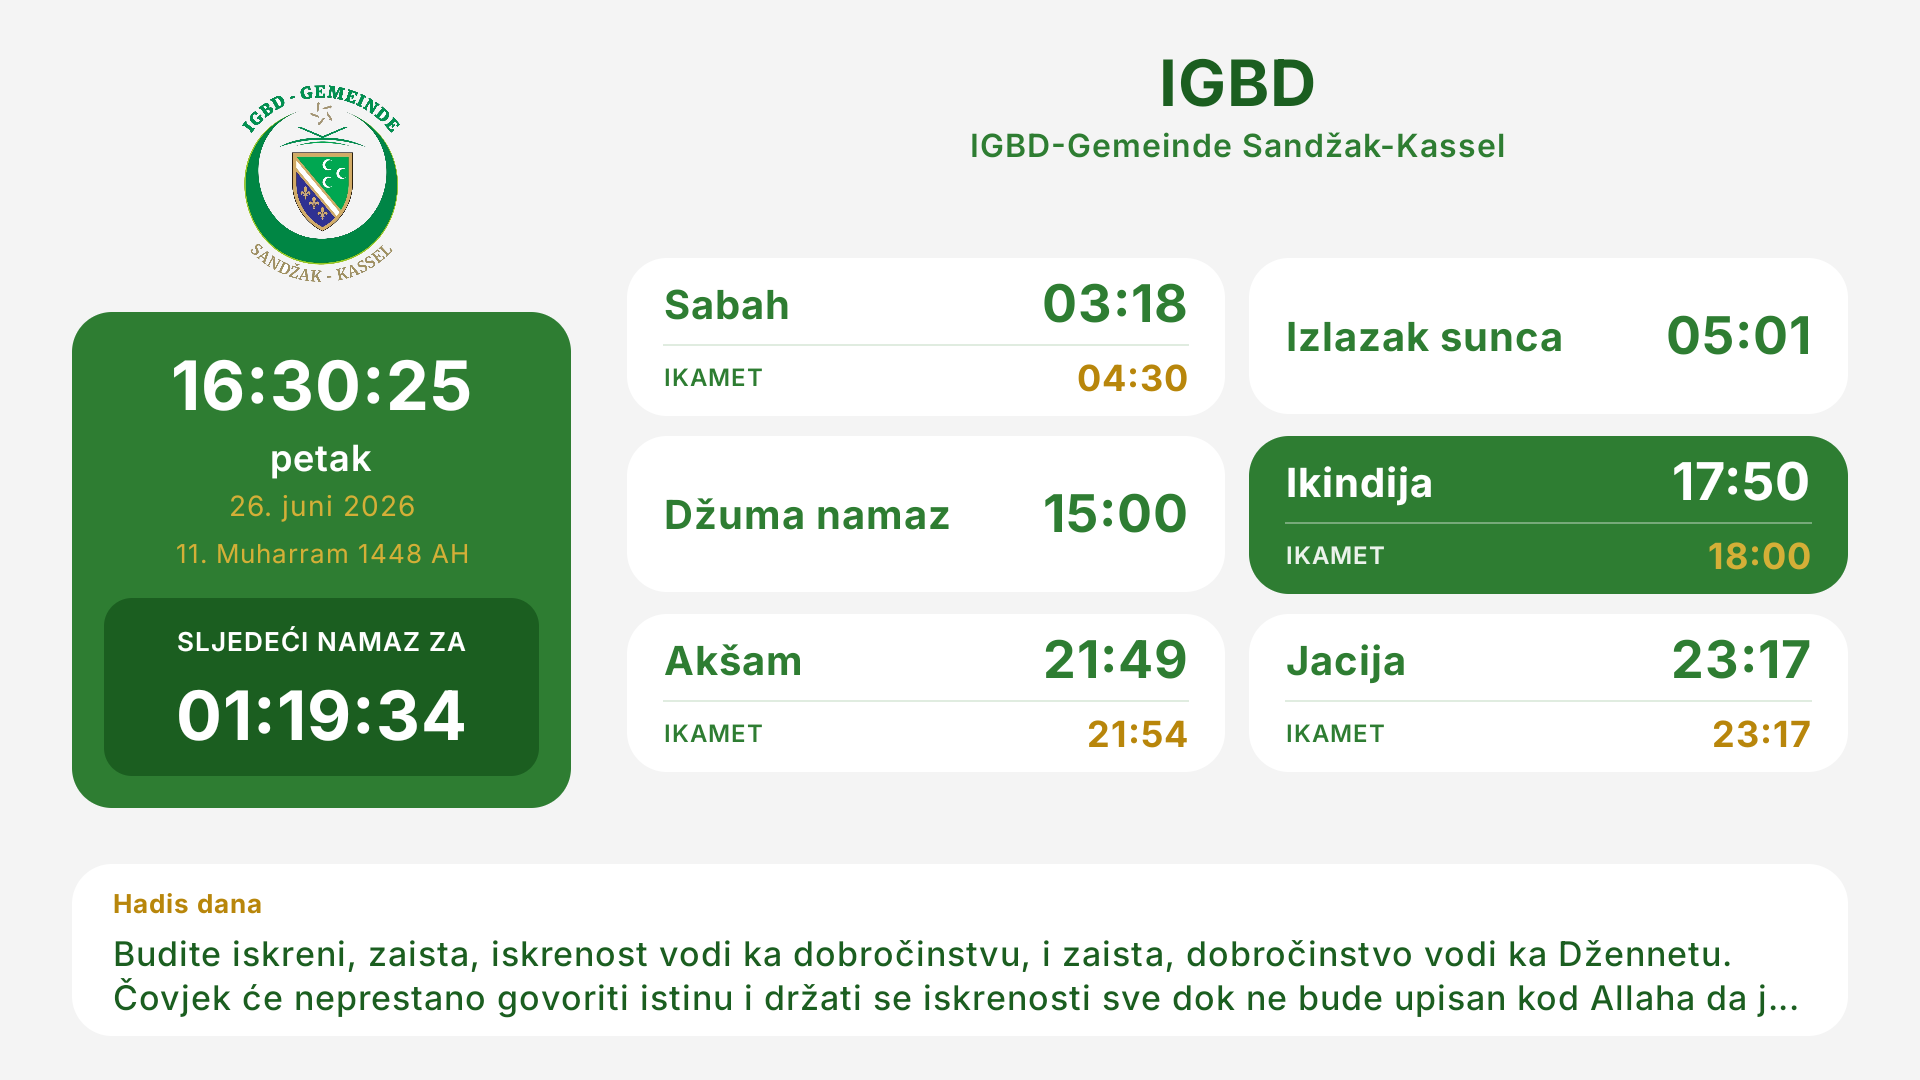
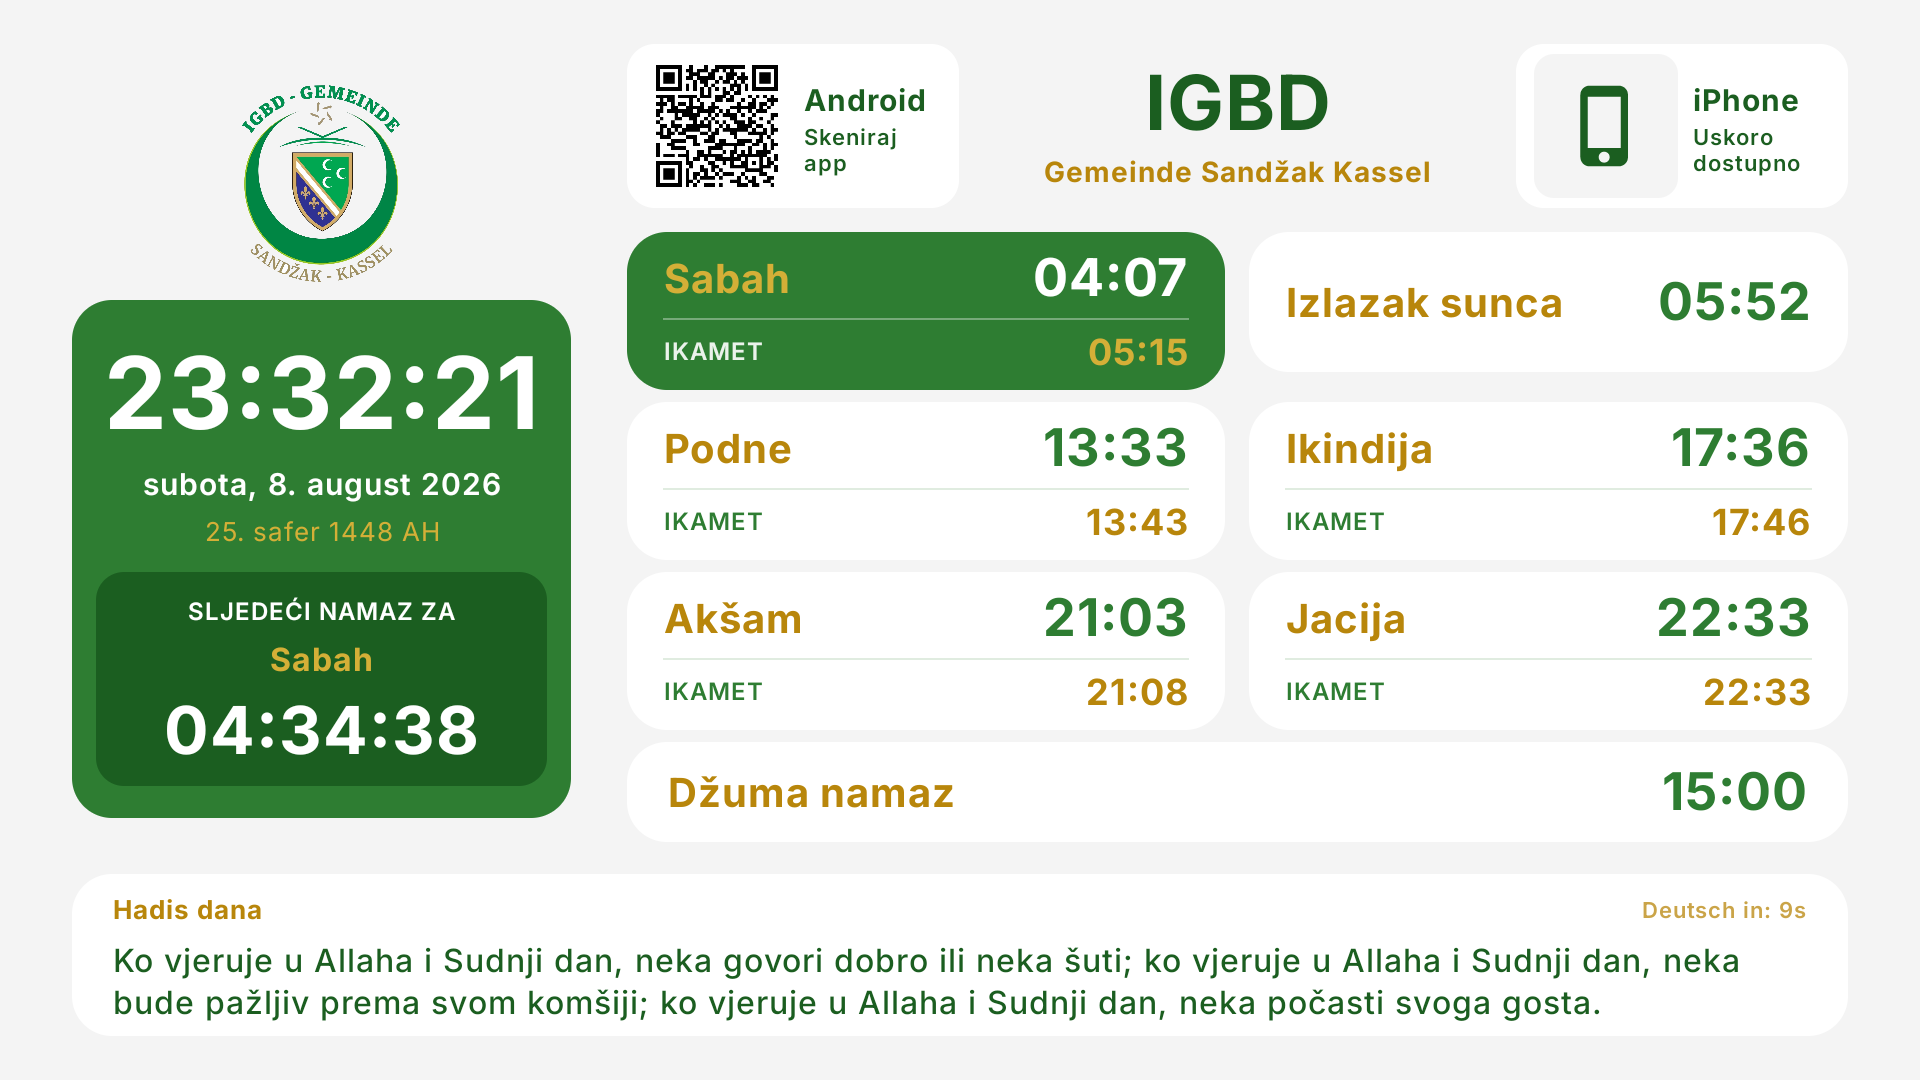
1.1.2 (versionCode 13): fix in-app language on Play installs + TV download QR codes
The language picker was broken for every Play-installed user: Play splits an App Bundle
per language and only installs the resources matching the device's system locale, so
choosing any other language found no strings and Android fell back to the system locale.
On a German phone the whole app — the onboarding intro the owner reported, and every
other screen — stayed German no matter what was picked. Fixed by disabling the language
split so all 8 languages ship in the base APK. This is invisible in debug/single-APK
builds, which is why it survived until now; verified instead at the bundle level
(BundleConfig.pb now carries splitDimension LANGUAGE negate:true).

TV wall board, per owner request (the mosque TV is small and hangs high):
- Two download badges flanking the community name at the top of the board: a scannable
  Android QR (regenerated larger, low error-correction so each module is physically
  bigger) and an iPhone placeholder reading "Bald verfügbar" / "Uskoro dostupno".
  Deliberately no QR on the iOS side until that build exists — a code that scans into
  nothing is worse than none.
- Badges are laid out horizontally: stacked, they were tall enough to push Maghrib, Isha
  and the whole Jumu'ah row off the board. Verified in BOTH language phases, because the
  3-line German hadith makes the band below taller and clipped Jumu'ah in German only.
- Emblem enlarged 80 -> 104dp, sized against the slack under the hero card in that same
  worst case.
[…]

diff --git a/app/src/main/java/de/igbdsandzakkassel/vaktija/ui/tv/TvDashboardScreen.kt b/app/src/main/java/de/igbdsandzakkassel/vaktija/ui/tv/TvDashboardScreen.kt
@@ -2,6 +2,7 @@ package de.igbdsandzakkassel.vaktija.ui.tv
 
 import android.content.Context
 import android.content.res.Configuration
+import androidx.annotation.DrawableRes
 import androidx.compose.animation.Crossfade
 import androidx.compose.animation.core.Animatable
 import androidx.compose.animation.core.FastOutSlowInEasing
@@ -23,7 +24,10 @@ import androidx.compose.foundation.layout.padding
 import androidx.compose.foundation.layout.size
 import androidx.compose.foundation.layout.width
 import androidx.compose.foundation.shape.RoundedCornerShape
+import androidx.compose.material.icons.Icons
+import androidx.compose.material.icons.outlined.PhoneIphone
 import androidx.compose.material3.HorizontalDivider
+import androidx.compose.material3.Icon
 import androidx.compose.material3.Text
 import androidx.compose.runtime.Composable
 import androidx.compose.runtime.DisposableEffect
@@ -201,56 +205,62 @@ private fun BoardBody(state: DashboardUiState, german: Boolean, ctx: Context) {
             Image(
                 painter = painterResource(R.drawable.logo_emblem),
                 contentDescription = stringResource(R.string.cd_app_logo),
-                modifier = Modifier.height(80.dp),
+                // Sized against the slack under the hero card, measured with the WORST case on
+                // screen (the 3-line German hadith, which makes the band below tallest). Going
+                // much past this starts clipping the countdown.
+                modifier = Modifier.height(104.dp),
             )
             Spacer(Modifier.height(6.dp))
             HeroCard(state, german, ctx, Modifier.fillMaxWidth())
-            Spacer(Modifier.height(6.dp))
-            // Growth loop: everyone waiting at the entrance can scan the board to install the app.
-            Row(
-                modifier = Modifier
-                    .clip(RoundedCornerShape(12.dp))
-                    .background(Color.White)
-                    .padding(horizontal = 8.dp, vertical = 4.dp),
-                verticalAlignment = Alignment.CenterVertically,
-            ) {
-                Image(
-                    painter = painterResource(R.drawable.tv_qr_play),
-                    contentDescription = null,
-                    modifier = Modifier.size(48.dp),
-                )
-                Text(
-                    text = "Skeniraj za aplikaciju\nApp scannen",
-                    color = BrandGreenDark,
-                    fontSize = 10.sp,
-                    fontWeight = FontWeight.SemiBold,
-                    lineHeight = 13.sp,
-                    modifier = Modifier.padding(start = 8.dp),
-                )
-            }
         }
 
         // ---- Right column: header + 2-column prayer grid + Džuma ----
         Column(modifier = Modifier.fillMaxHeight().weight(0.71f)) {
-            Text(
-                text = "IGBD",
-                color = BrandGreenDark,
-                fontSize = 38.sp,
-                fontWeight = FontWeight.Black,
-                textAlign = TextAlign.Center,
-                maxLines = 1,
+            // Growth loop: everyone waiting in the prayer hall can scan the board to install the
+            // app. The codes flank the community name so they sit at the top of the board — this
+            // TV hangs high on the wall, so the lower it is the worse the scanning angle.
+            Row(
                 modifier = Modifier.fillMaxWidth(),
-            )
-            Text(
-                // The big "IGBD" is already above; the subtitle is just the community name — no
-                // repeated "IGBD-", and "Sandžak Kassel" with a space (not a hyphen).
-                text = "Gemeinde Sandžak Kassel",
-                color = BrandGold,
-                fontSize = 17.sp,
-                fontWeight = FontWeight.Bold,
-                textAlign = TextAlign.Center,
-                modifier = Modifier.fillMaxWidth(),
-            )
+                verticalAlignment = Alignment.CenterVertically,
+                horizontalArrangement = Arrangement.spacedBy(12.dp),
+            ) {
+                StoreBadge(
+                    label = "Android",
+                    caption = if (german) "App scannen" else "Skeniraj app",
+                    qr = R.drawable.tv_qr_play,
+                )
+                Column(modifier = Modifier.weight(1f)) {
+                    Text(
+                        text = "IGBD",
+                        color = BrandGreenDark,
+                        fontSize = 38.sp,
+                        fontWeight = FontWeight.Black,
+                        textAlign = TextAlign.Center,
+                        maxLines = 1,
+                        modifier = Modifier.fillMaxWidth(),
+                    )
+                    Text(
+                        // The big "IGBD" is already above; the subtitle is just the community name
+                        // — no repeated "IGBD-", and "Sandžak Kassel" with a space (not a hyphen).
+                        text = "Gemeinde Sandžak Kassel",
+                        color = BrandGold,
+                        // 14sp, not 17: the two download badges narrowed this column, and the name
+                        // reads better on one line than wrapped after "Sandžak".
+                        fontSize = 14.sp,
+                        fontWeight = FontWeight.Bold,
+                        textAlign = TextAlign.Center,
+                        modifier = Modifier.fillMaxWidth(),
+                    )
+                }
+                // No iOS build exists yet, so there is deliberately no QR here — a code that
+                // scans into nothing is worse than none. Swap `qr = R.drawable.tv_qr_ios` in once
+                // the App Store listing is live.
+                StoreBadge(
+                    label = "iPhone",
+                    caption = if (german) "Bald verfügbar" else "Uskoro dostupno",
+                    qr = null,
+                )
+            }
             Spacer(Modifier.height(6.dp))
 
             Column(
@@ -531,6 +541,72 @@ private fun DailyHadithBand(
             maxLines = 4,
             overflow = TextOverflow.Ellipsis,
         )
+    }
+}
+
+/**
+ * A download badge flanking the community name: platform label, QR code, and a short call to action.
+ *
+ * Sized for the wall: the code is 112.dp (a bit over 2x the old inline one) because this TV hangs
+ * high and gets scanned from the prayer hall, not from arm's length. A [qr] of null renders the slot
+ * as a placeholder — used for iOS until that build ships, so the layout stays symmetrical and the
+ * community can see it is coming without anyone scanning into a dead end.
+ */
+@Composable
+private fun StoreBadge(label: String, caption: String, @DrawableRes qr: Int?) {
+    // Laid out side-by-side rather than stacked: this row sits above the prayer grid, so every dp
+    // of badge height is taken straight off the grid. Horizontal keeps the code big (the wall TV is
+    // scanned from across the room) while staying roughly as tall as the IGBD heading beside it.
+    Row(
+        modifier = Modifier
+            .clip(RoundedCornerShape(14.dp))
+            .background(Color.White)
+            .padding(horizontal = 9.dp, vertical = 5.dp),
+        verticalAlignment = Alignment.CenterVertically,
+    ) {
+        if (qr != null) {
+            Image(
+                painter = painterResource(qr),
+                contentDescription = null,
+                modifier = Modifier.size(72.dp),
+            )
+        } else {
+            Box(
+                modifier = Modifier
+                    .size(72.dp)
+                    .clip(RoundedCornerShape(10.dp))
+                    .background(PageBackgroundLight),
+                contentAlignment = Alignment.Center,
+            ) {
+                Icon(
+                    imageVector = Icons.Outlined.PhoneIphone,
+                    contentDescription = null,
+                    tint = BrandGreenDark,
+                    modifier = Modifier.size(44.dp),
+                )
+            }
+        }
+        Column(
+            // Tight, but wide enough for "Android" to fit uncut — the community name between the
+            // two badges still has to stay on one line, so the captions are kept to two short words.
+            modifier = Modifier.width(76.dp).padding(start = 7.dp),
+        ) {
+            Text(
+                text = label,
+                color = BrandGreenDark,
+                fontSize = 15.sp,
+                fontWeight = FontWeight.Black,
+                maxLines = 1,
+            )
+            Text(
+                text = caption,
+                color = BrandGreenDark,
+                fontSize = 11.sp,
+                fontWeight = FontWeight.SemiBold,
+                lineHeight = 13.sp,
+                maxLines = 2,
+            )
+        }
     }
 }
 

diff --git a/tools/make_tv_banner.py b/tools/make_tv_banner.py
@@ -1,0 +1,71 @@
+"""Generate the 1280x720 Android TV banner for the Play Store listing.
+
+This is NOT the same asset as res/drawable-xhdpi/tv_banner.png (320x180), which is the launcher
+tile shown on the TV's own home screen. Play requires a separate, much larger banner for the store
+listing when the Android TV form factor is enabled.
+
+Drawn at full size rather than upscaled from the 320x180 tile, so the emblem and lettering stay
+crisp on a 4K TV browsing the store.
+
+Run:  python tools/make_tv_banner.py
+"""
+
+import os
+from PIL import Image, ImageDraw, ImageFont
+
+ROOT = os.path.dirname(os.path.dirname(os.path.abspath(__file__)))
+EMBLEM = os.path.join(ROOT, "app", "src", "main", "res", "drawable-nodpi", "logo_emblem.png")
+OUT = os.path.join(ROOT, "docs", "play", "tv", "tv_banner_1280x720.png")
+
+W, H = 1280, 720
+GREEN_DARK = (27, 94, 32)
+GREEN = (46, 125, 50)
+GOLD = (212, 175, 55)
+WHITE = (255, 255, 255)
+
+
+def font(size, bold=True):
+    names = ["arialbd.ttf"] if bold else ["arial.ttf"]
+    for name in names:
+        try:
+            return ImageFont.truetype(os.path.join(r"C:\Windows\Fonts", name), size)
+        except OSError:
+            continue
+    return ImageFont.load_default()
+
+
+img = Image.new("RGB", (W, H), GREEN_DARK)
+draw = ImageDraw.Draw(img)
+
+# Soft vertical brand gradient so the flat tile does not look dead next to other store banners.
+for y in range(H):
+    t = y / H
+    draw.line(
+        [(0, y), (W, y)],
+        fill=tuple(int(GREEN_DARK[i] + (GREEN[i] - GREEN_DARK[i]) * t) for i in range(3)),
+    )
+
+# Emblem on a white rounded chip (the emblem's own ring text needs a light backing to stay legible).
+chip = 300
+cx, cy = 150, (H - chip) // 2
+draw.rounded_rectangle([cx, cy, cx + chip, cy + chip], radius=36, fill=WHITE)
+emblem = Image.open(EMBLEM).convert("RGBA")
+pad = 26
+box = chip - 2 * pad
+scale = min(box / emblem.width, box / emblem.height)
+emblem = emblem.resize((int(emblem.width * scale), int(emblem.height * scale)), Image.LANCZOS)
+img.paste(
+    emblem,
+    (cx + (chip - emblem.width) // 2, cy + (chip - emblem.height) // 2),
+    emblem,
+)
+
+# Wordmark
+tx = cx + chip + 70
+draw.text((tx, 250), "Kassel Vaktija", font=font(88), fill=WHITE)
+draw.text((tx, 360), "IGBD-Gemeinde Sandžak-Kassel", font=font(40), fill=GOLD)
+draw.text((tx, 425), "Namaska vremena · Gebetszeiten", font=font(34, bold=False), fill=WHITE)
+
+os.makedirs(os.path.dirname(OUT), exist_ok=True)
+img.save(OUT)
+print(f"wrote {OUT}  ({W}x{H})")

diff --git a/tools/make_tv_qr.py b/tools/make_tv_qr.py
@@ -1,0 +1,28 @@
+"""Regenerate the Android QR code shown on the TV wall board.
+
+The board hangs high on a wall in the mosque, so the code is scanned from several metres away with
+a phone held at arm's length. That drives every choice here: the lowest error-correction level that
+still survives (ERC_L keeps the module count down, so each module stays physically large), a short
+URL, a fat quiet zone, and no logo overlay eating into the pattern.
+
+Run:  python tools/make_tv_qr.py
+"""
+
+import qrcode
+from qrcode.constants import ERROR_CORRECT_L
+
+PLAY_URL = "https://play.google.com/store/apps/details?id=de.igbdsandzakkassel.vaktija"
+OUT = "app/src/main/res/drawable-nodpi/tv_qr_play.png"
+
+# box_size is px per module. 24 gives a ~1000px image for this URL's version — far more than the TV
+# needs, but it means the drawable never softens when Compose scales it up on a 4K panel.
+img = qrcode.QRCode(
+    error_correction=ERROR_CORRECT_L,
+    box_size=24,
+    border=3,  # quiet zone in modules; 3 is scanner-safe against the white card behind it
+)
+img.add_data(PLAY_URL)
+img.make(fit=True)
+img.make_image(fill_color="black", back_color="white").save(OUT)
+
+print(f"wrote {OUT}")
